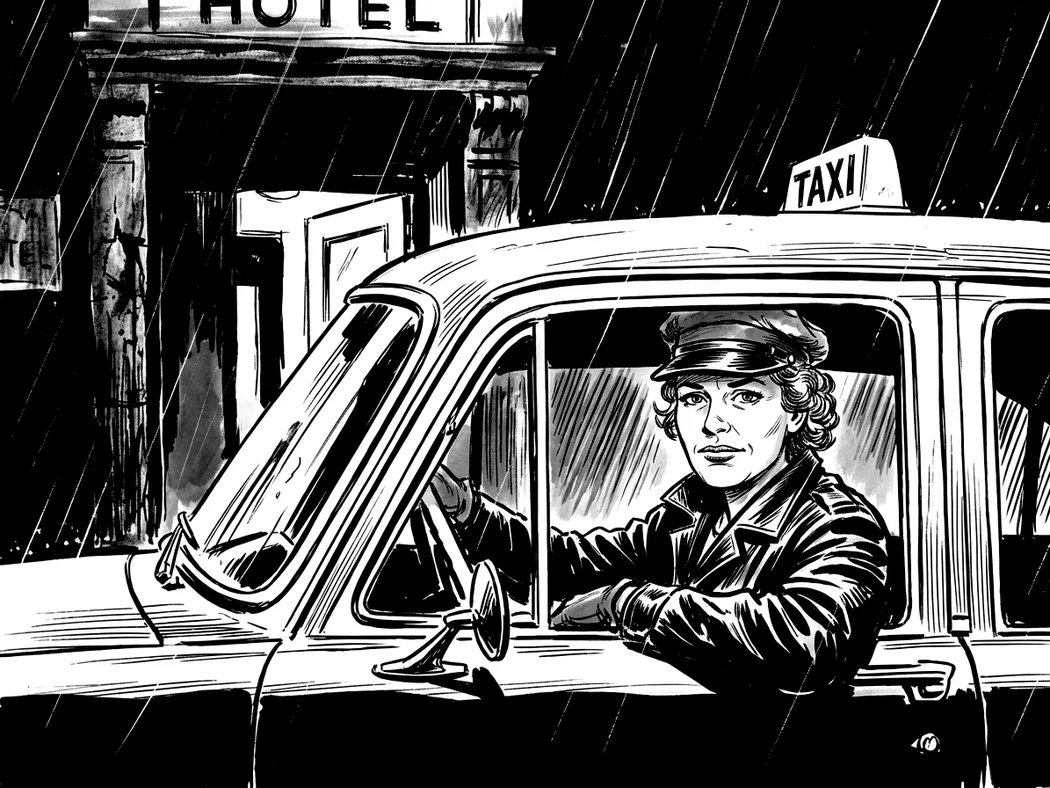
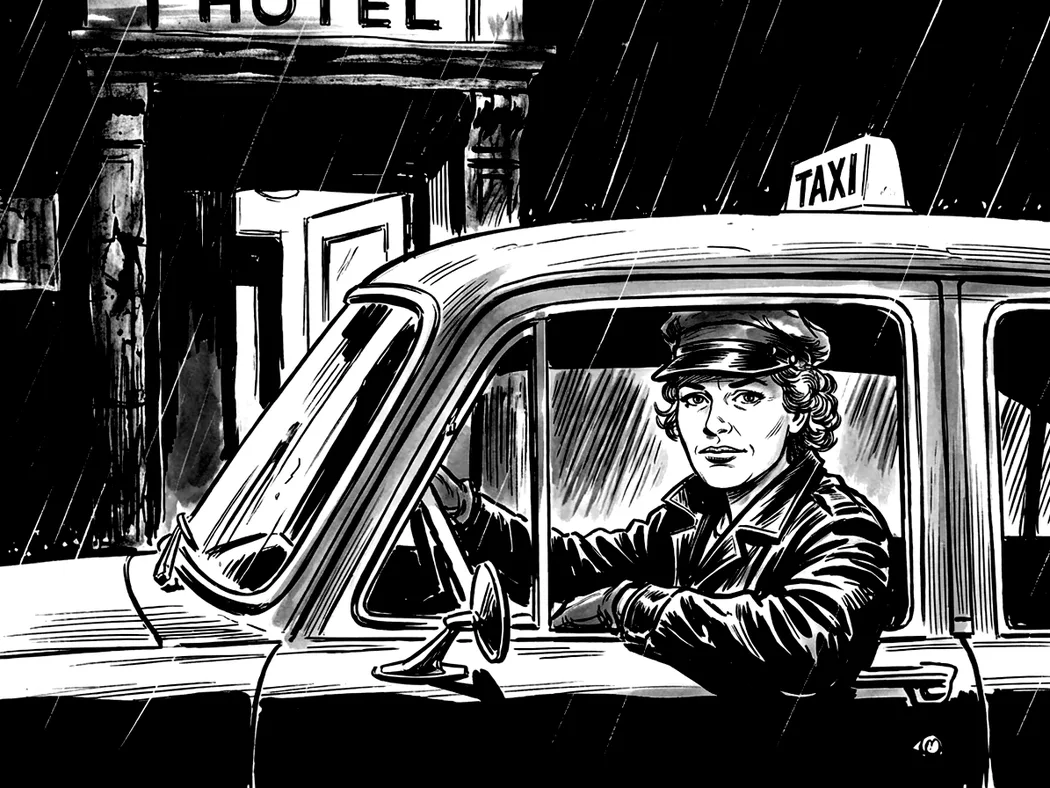
Rita om taxichaufförens kvinna så att hon stämmer med mannen
Två referenser: den gamla kvinnan för personen och den nya mannen för
scen och stil (Jonas 2026-11-15).

Claude-Session: https://claude.ai/code/session_01X82C4AptUEE9LHKngPSzUq

diff --git a/docs/bildsmak.md b/docs/bildsmak.md
@@ -340,6 +340,9 @@ en regel.
   "kavajen blir kladdig". Kritstrecksränder blir kladdiga med lösa
   penseldrag; den gamla bilden behålls. `roll-taxichauffor-man`: "huvudet är
   en aning för stort", "inte litet, men normal".
+  `roll-taxichauffor-kvinna` ritad med den nya mannen som enda referens blev
+  "sämre"; med två referenser (gamla kvinnan för personen, nya mannen för
+  scen och stil) blev den "bättre".
 
 ## Bilder att byta
 
